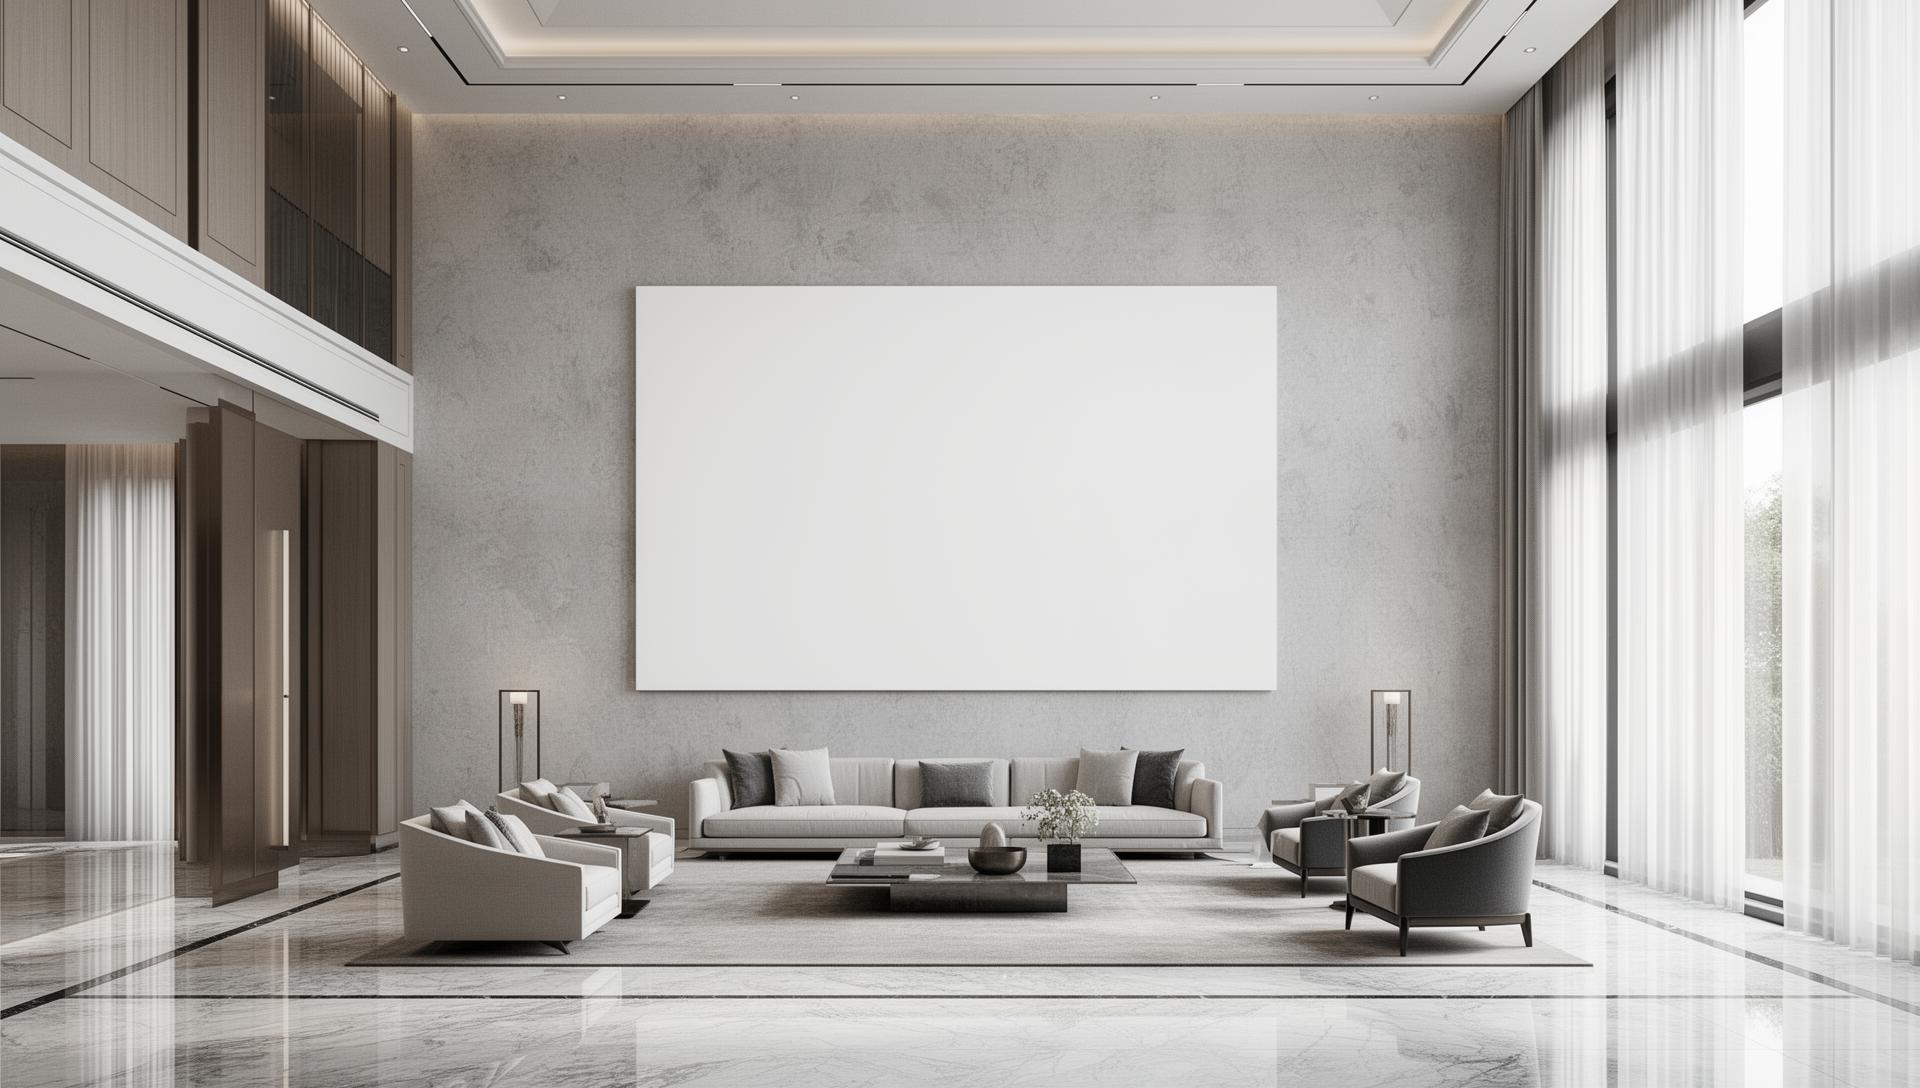
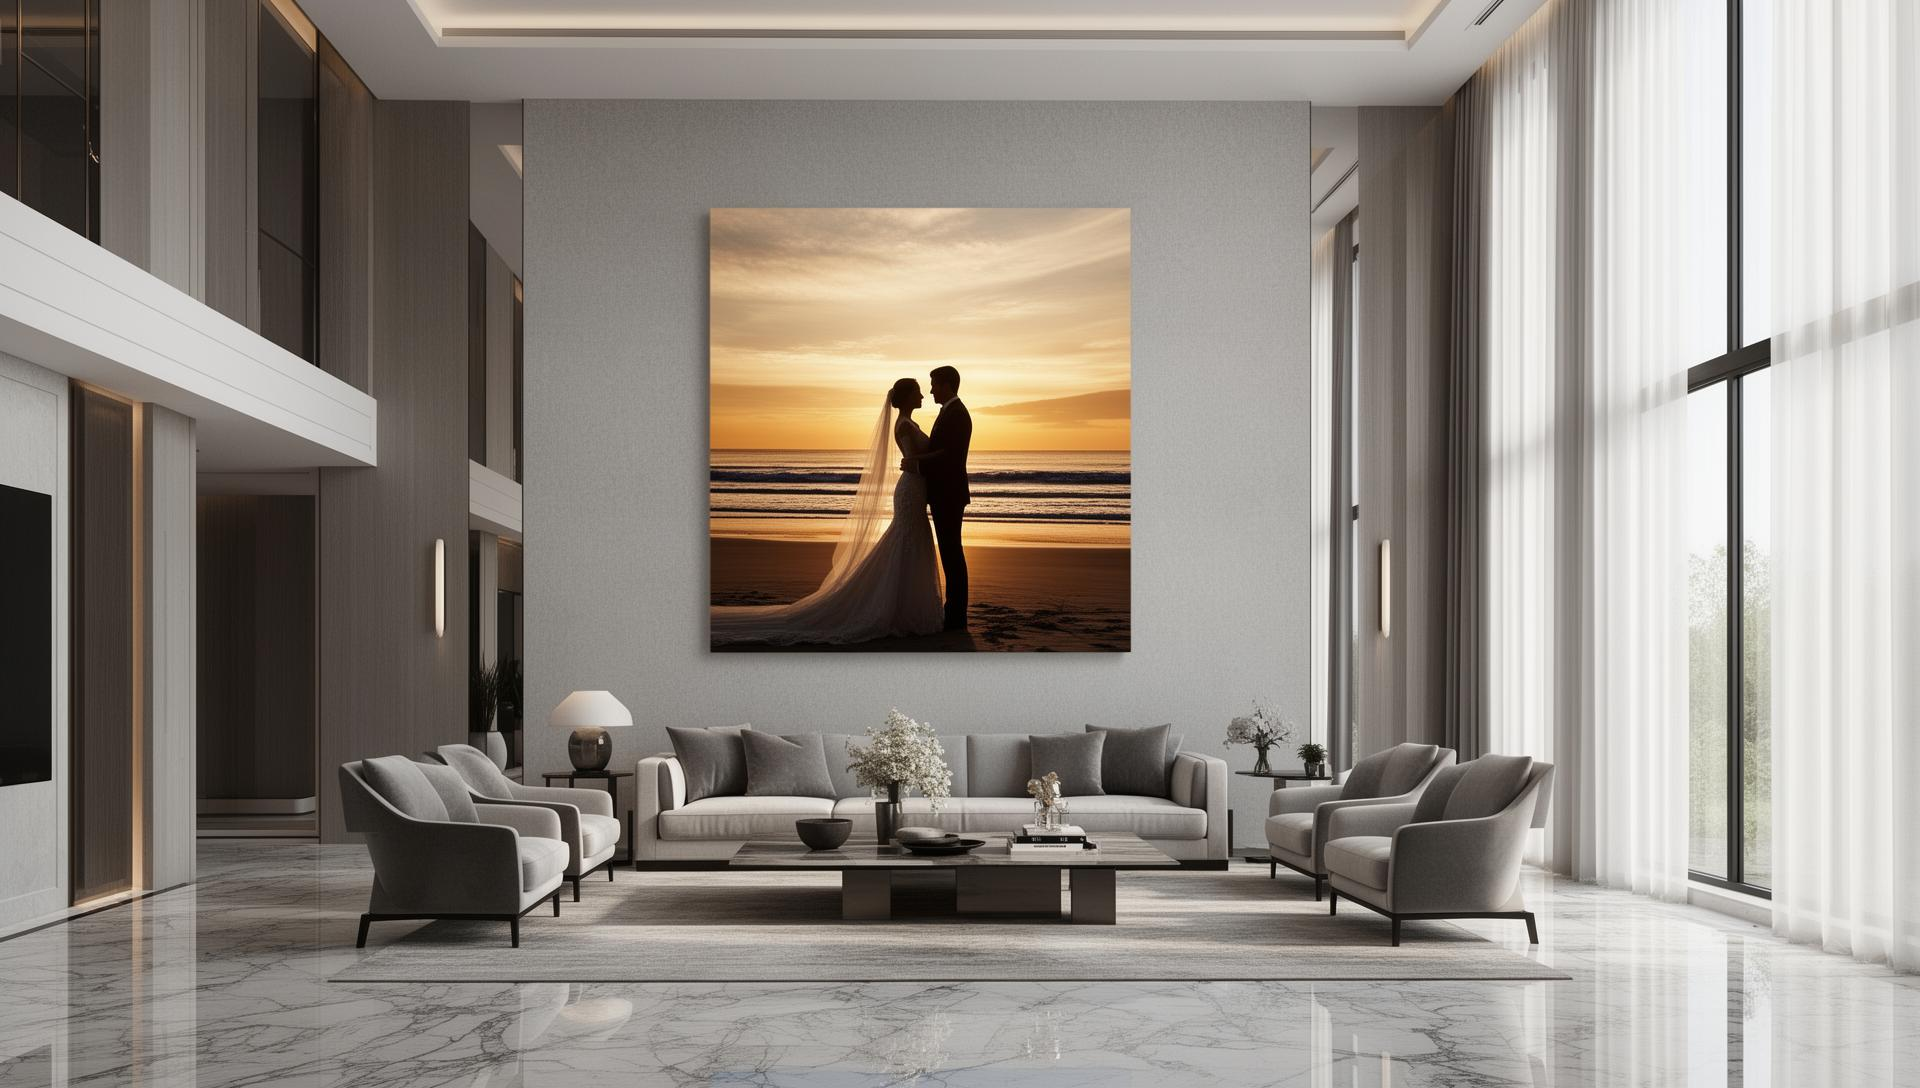
Changes

diff --git a/src/components/LuxuryShowcase.tsx b/src/components/LuxuryShowcase.tsx
@@ -12,7 +12,7 @@ const slides = [
   {
     image: metalLiving,
     label: "Grand Scale",
-    caption: "A grand luxury wall awaiting your vision — imagine your art at monumental scale.",
+    caption: "A monumental wedding portrait on metal commands a grand living room with breathtaking presence.",
   },
   {
     image: acrylicDining,
